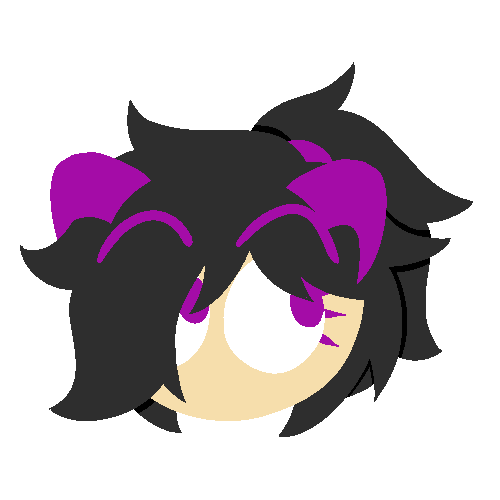
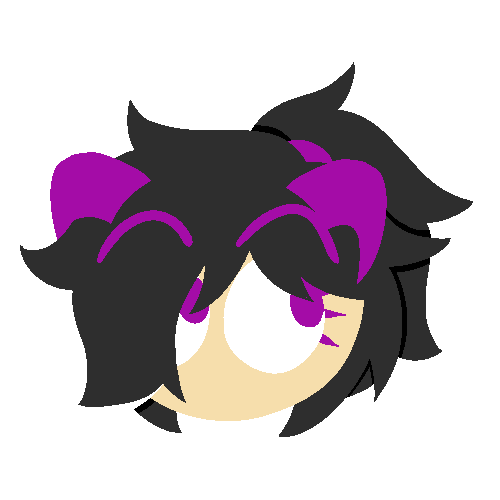
add img

Changed region(s): [[0.09, 0.6, 0.3, 0.84]]

diff --git a/tir/world/language.md b/tir/world/language.md
@@ -43,6 +43,12 @@ Sounds like j, q, and x are more common in Ancient Bauhinian, and are used in Mo
 
 Adjectives in Bauhinian can be emphasized by repeating the first syllable as many times as you'd like. For example, take the adjective "tungsahur." If someone says "tung-tung-tungsahur," it means "very very tungsahur."
 
+In different contexts, "please" is expressed differently. Examples include
+
+- "If you don't mind" (inquiries)
+- "If you would be so kind" (requests)
+- "I implore you to" (imperative please)
+
 ## Accents
 
 <dl>

diff --git a/tir/changelog/changelog.md b/tir/changelog/changelog.md
@@ -5,6 +5,10 @@ eleventyNavigation:
   order: 990
 ---
 
+## 2026-10-09
+
+- Added `flutter dart.png`, `iyemalis.png`;
+
 ## 2026-10-08
 
 - 奇轹的中文名改为奇娳；

diff --git a/tir/drafts/roles.md b/tir/drafts/roles.md
@@ -1,7 +1,7 @@
 - analyst
 - spymaster
 - surveillance officer (hyperawareness, Echo)
-- handler
+- handler (mind-reading)
 - special ops
 - spycatcher
 - cryptologist
